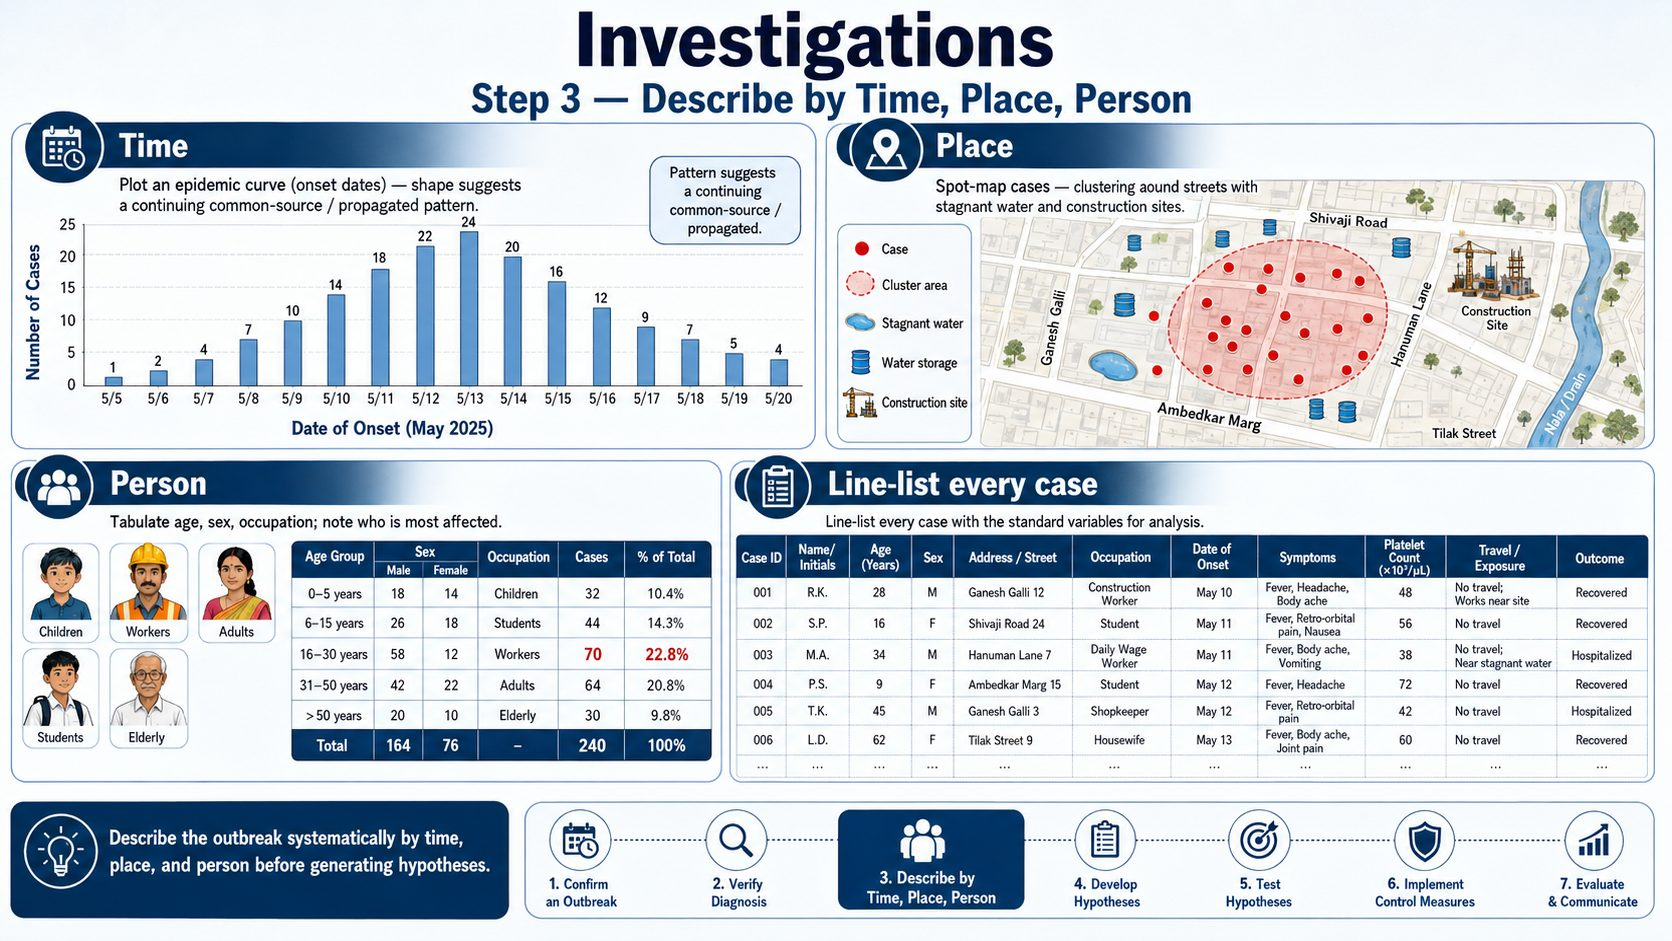
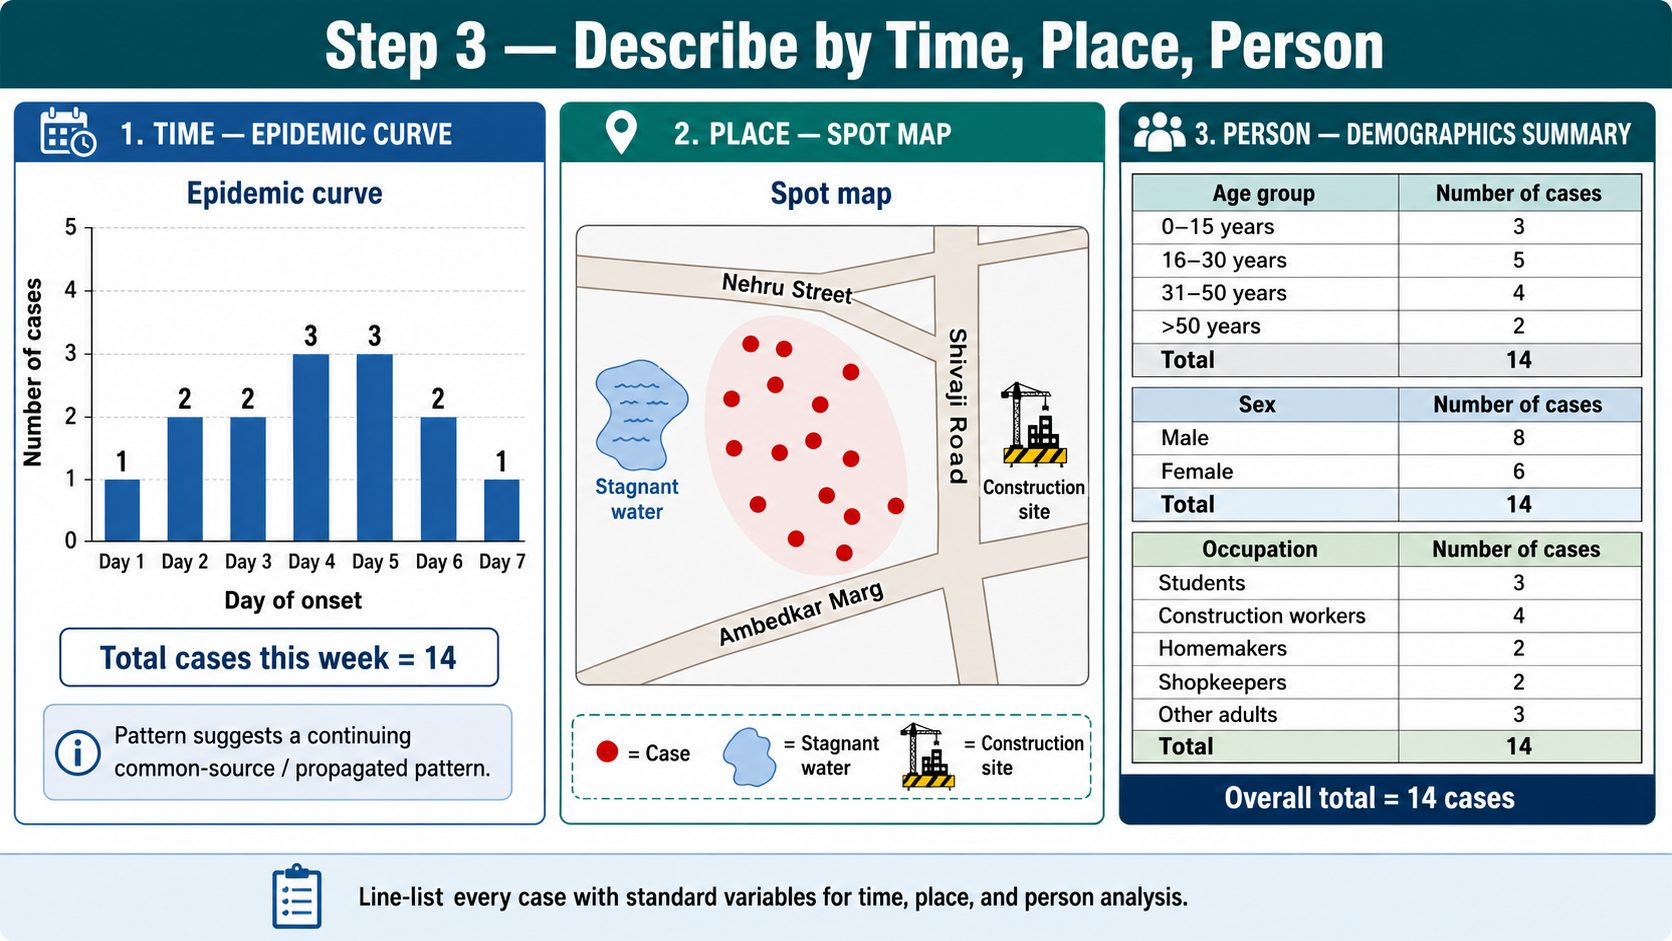
Fix Vector-borne Outbreak investigation image case-count mismatch (v1.11.3)
Replaces investigation.jpg in place with Dr. Kumar's corrected upload.
Independently re-verified the arithmetic before wiring in: epidemic
curve, age, sex, and occupation tables each sum to exactly 14, matching
the case's "14 cases in a week" statement and the image's own printed
totals. Caption updated accordingly. Scenario-step image untouched.

Claude-Session: https://claude.ai/code/session_01GKwMKs2MJqzwi38Zu6PZKW

diff --git a/data/cases-extra.ts b/data/cases-extra.ts
@@ -1086,7 +1086,7 @@ const outbreak: Case = {
         type: 'image',
         src: '/media/cases/vector-borne-outbreak/investigation.jpg',
         caption:
-          'AI-generated illustrative image — not real patient photography. An epidemic curve by date of onset showing a single-peaked rise-and-decline pattern, a spot map of case clustering around streets near stagnant water and construction sites, and example person and line-list summary tables illustrating outbreak-investigation data structure.',
+          'AI-generated illustrative image — not real patient photography. Epidemic curve (14 cases over 7 days), spot map showing case clustering near stagnant water and a construction site, and demographic summary tables (age, sex, occupation) — all totals consistent with the case’s 14 reported cases.',
       },
     },
     {

diff --git a/CHANGELOG.md b/CHANGELOG.md
@@ -4,6 +4,44 @@ All notable changes to CaseStep are documented in this file. The format is
 based on [Keep a Changelog](https://keepachangelog.com/), and the project
 adheres to [Semantic Versioning](https://semver.org/).
 
+## [1.11.3] — 2026-07-29
+
+### Vector-borne Outbreak investigation image: case-count fix
+
+Replaces the investigation-step image with Dr. Kumar's corrected
+version, fixing the case-count mismatch flagged in v1.11.2. The
+scenario-step image remains completely untouched.
+
+- `public/media/cases/vector-borne-outbreak/investigation.jpg`:
+  overwritten in place with the corrected upload (same path, no stray
+  old file left behind) — converted PNG → JPEG at quality 82,
+  1,395,345 bytes (~1.33 MB) → 242,108 bytes (~236 KB), a ~82.6%
+  reduction, no visible quality loss.
+- **Arithmetic independently re-verified, per instruction, before
+  wiring in**: epidemic curve bars (1+2+2+3+3+2+1) sum to **14** across
+  exactly 7 days; age-group table (3+5+4+2), sex table (8+6), and
+  occupation table (3+4+2+2+3) each independently sum to **14**; all
+  match the image's own printed "Total = 14" labels and the case's "14
+  cases ... in a week" statement. No mismatch this time — the defect
+  from v1.11.2 is resolved.
+- `data/cases-extra.ts`: caption updated to "AI-generated illustrative
+  image — not real patient photography. Epidemic curve (14 cases over
+  7 days), spot map showing case clustering near stagnant water and a
+  construction site, and demographic summary tables (age, sex,
+  occupation) — all totals consistent with the case's 14 reported
+  cases."
+- Noted for the record, not a blocker: this image's street names
+  (Nehru Street, Shivaji Road, Ambedkar Marg) still don't fully match
+  the scenario image's spot map from an earlier round. The case text
+  names no specific streets, so this isn't a contradiction of case
+  data — just a minor cross-image inconsistency, unchanged from the
+  prior flag.
+- Verified locally: `typecheck`, `lint`, `build` (static export intact),
+  `vitest` (17/17), `verify.mjs` (11/11), and a headless-browser check
+  confirming the scenario step is unchanged, the investigation step
+  shows the corrected image with the new caption, and no trace of the
+  old caption text remains.
+
 ## [1.11.2] — 2026-07-29
 
 ### Vector-borne Outbreak case: investigation-step image (case-count flag)

diff --git a/README.md b/README.md
@@ -12,7 +12,7 @@
 [![Tailwind CSS](https://img.shields.io/badge/Tailwind_CSS-3-38BDF8?logo=tailwindcss&logoColor=white)](https://tailwindcss.com/)
 [![Supabase](https://img.shields.io/badge/Supabase-optional-3ECF8E?logo=supabase&logoColor=white)](https://supabase.com/)
 [![License: MIT](https://img.shields.io/badge/License-MIT-yellow.svg)](LICENSE)
-[![Release](https://img.shields.io/badge/release-v1.11.2-0d9488)](CHANGELOG.md)
+[![Release](https://img.shields.io/badge/release-v1.11.3-0d9488)](CHANGELOG.md)
 
 **🔗 Live site: [casestep.in](https://casestep.in/)**
 
@@ -132,7 +132,7 @@ Every page — SCT, both dashboards, Research & Evaluation, About, and Contact &
 same illustration/disclaimer visual language, not just the Case Library and OSCE stations from the
 initial multimedia pass.
 
-**Current version:** v1.11.2 (see [CHANGELOG.md](CHANGELOG.md)).
+**Current version:** v1.11.3 (see [CHANGELOG.md](CHANGELOG.md)).
 
 ## Technology stack
 
